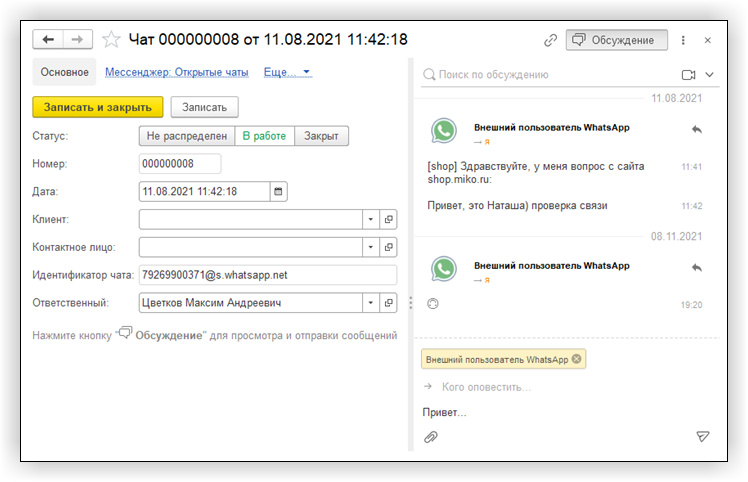
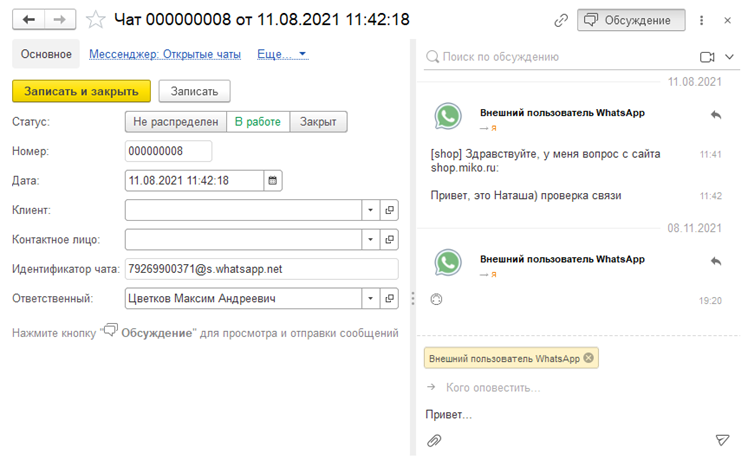
Убрал тени с самих картинок и сделал их стилями на html

Changed region(s): [[0.0, 0.0, 0.984, 0.9914], [0.5535, 0.5107, 0.861, 0.6009]]

diff --git a/src/user-guides/messenger/processing-queue.md b/src/user-guides/messenger/processing-queue.md
@@ -21,7 +21,7 @@ order: -2
 В панели телефонии отображаются чаты со статусами **в очереди** и **в работе**. В последнем случае отображаются только
 те чаты, где текущий сотрудник является владельцем. Чтобы стать владельцем чата достаточно ответить на первое сообщение.
 
-[![](~/assets/whatsapp/chat-panel-preview.png)](~/assets/whatsapp/chat-panel.png)
+[<img src="/assets/whatsapp/chat-panel-preview.png" style="box-shadow: 0 0 20px 0 grey">](~/assets/whatsapp/chat-panel.png)
 
 ##### Для обработки сообщения:
 1. Перейдите в раздел `Чаты`.
@@ -33,7 +33,7 @@ order: -2
 Для чтения и отправки сообщений в 1С используется встроенный платформу механизм **Обсуждения**. Все чаты привязаны к
 конкретным объектам **Чат**, расположенным в разделе **Звонки и сообщения**.
 
-[![](~/assets/whatsapp/chat-1c-preview.png)](~/assets/whatsapp/chat-1c.png)
+[<img src="/assets/whatsapp/chat-1c-preview.png" style="box-shadow: 0 0 20px 0 grey">](~/assets/whatsapp/chat-1c.png)
 
 ##### Для обработки сообщения:
 1. В разделе `Звонки и сообщения` откройте `Чаты`.

diff --git a/src/user-guides/messenger/setup-whatsapp.md b/src/user-guides/messenger/setup-whatsapp.md
@@ -22,7 +22,11 @@ order: -1
 
 1. Запустите сеанс 1С:Предприятие и в разделе `Звонки и сообщения` откройте<br> `Настройки мессенджера`. На экране
    отобразится QR-код.
-   ![](~/assets/whatsapp/scan-qrcode.png)
+   
+   <figure class="content-center">
+     <img  src="/assets/whatsapp/scan-qrcode.png" style="box-shadow: 0 0 20px 0 grey">
+   </figure>
+   
 2. Откройте приложение **WhatsApp** или **WhatsApp Business** на своём телефоне.
    - На **Android**: нажмите `Другие опции`.
    - На **iPhone**: перейдите в `Настройки` WhatsApp.
